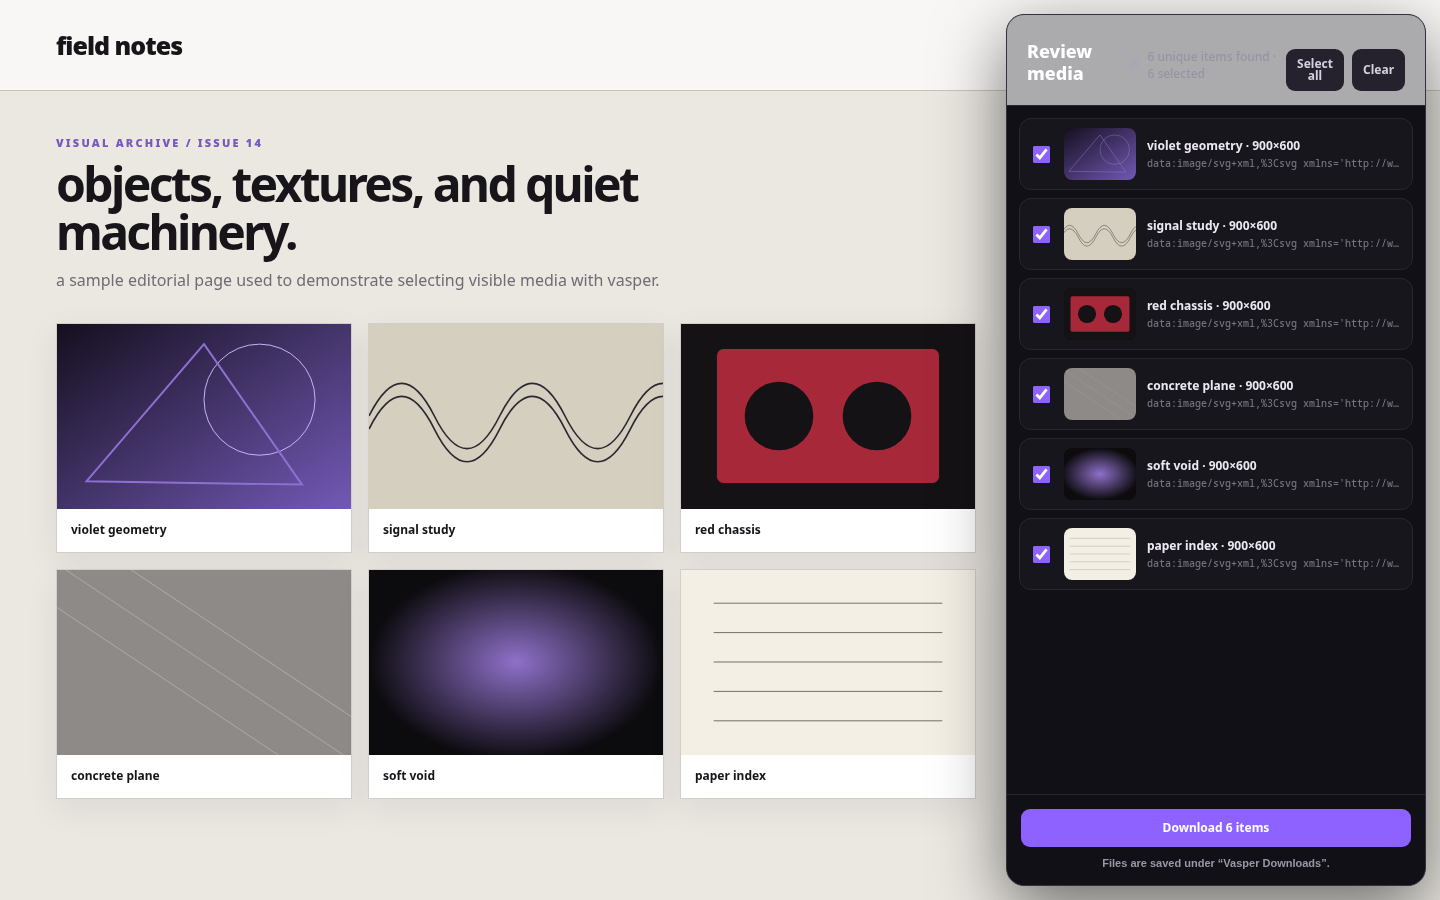
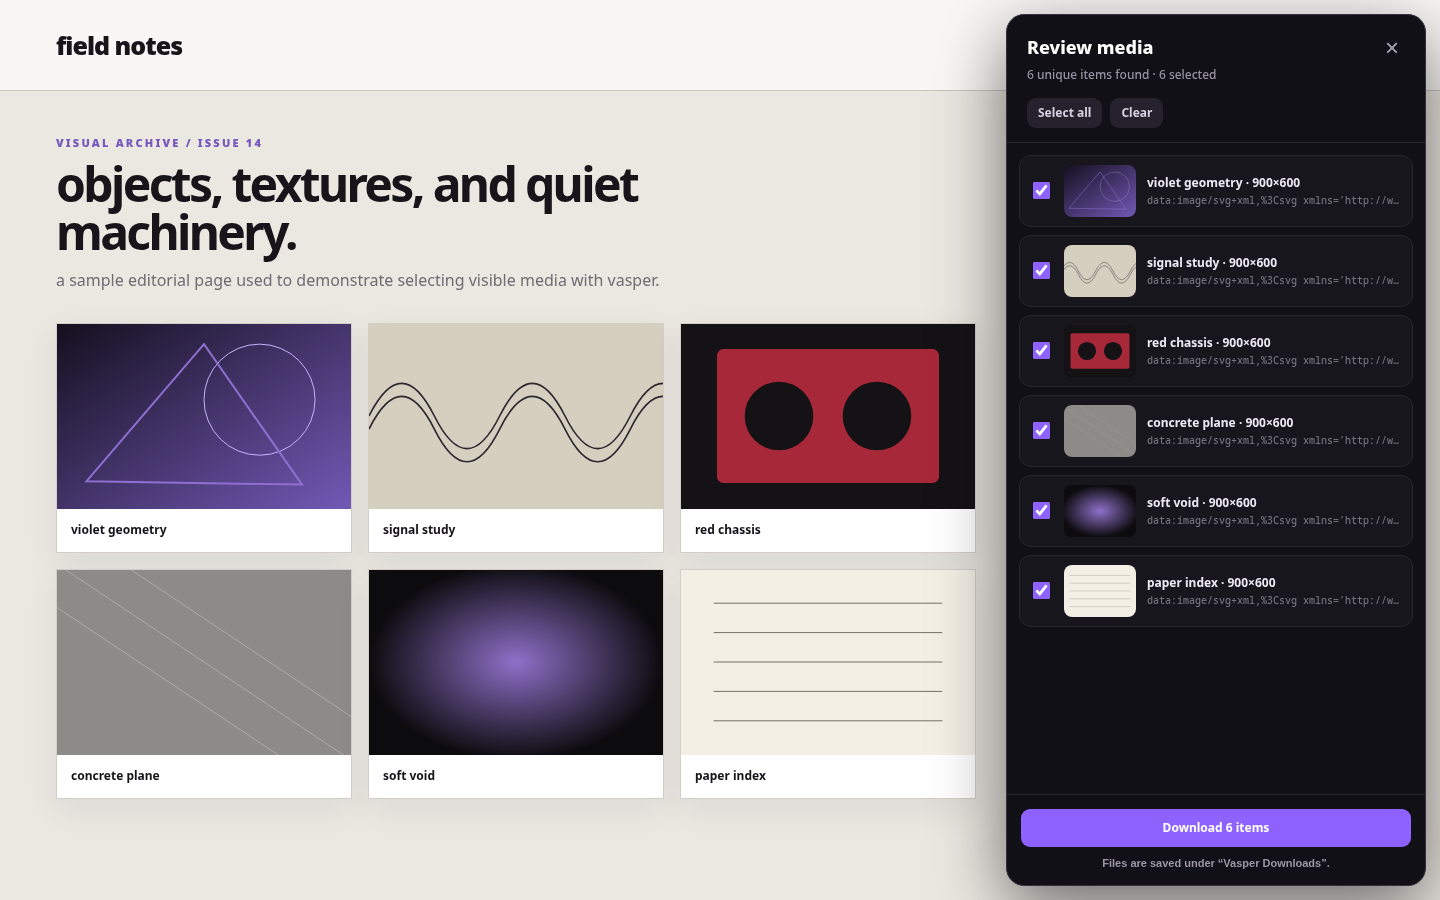
chore: prepare branded promotion assets

Changed region(s): [[0.6875, 0.0, 1.0, 0.6844]]

diff --git a/test/popup-branding.test.js b/test/popup-branding.test.js
@@ -1,0 +1,11 @@
+const assert = require('node:assert/strict');
+const fs = require('node:fs');
+const path = require('node:path');
+const test = require('node:test');
+
+const popup = fs.readFileSync(path.join(__dirname, '../src/popup.html'), 'utf8');
+
+test('the popup uses the current Vasper name', () => {
+  assert.match(popup, />VASPER<\/p>/);
+  assert.doesNotMatch(popup, /MEDIA BOX/i);
+});

diff --git a/src/popup.html b/src/popup.html
@@ -10,7 +10,7 @@
   <main>
     <div class="mark" aria-hidden="true">⌗</div>
     <div>
-      <p class="eyebrow">MEDIA BOX</p>
+      <p class="eyebrow">VASPER</p>
       <h1>Grab the media you can see.</h1>
     </div>
     <p class="copy">Draw a rectangle over a page, review the images, GIFs, videos, or audio found there, and download them together.</p>

diff --git a/promotion/README.md b/promotion/README.md
@@ -1,0 +1,19 @@
+# chrome web store promotion assets
+
+these files are genuine captures built from the current unpacked extension interface. they do not use mock product screens.
+
+## screenshots
+
+- `01-vasper-popup.png` — the popup after media discovery (`1280 × 800`)
+- `02-select-visible-media.png` — media selection with two items checked (`1280 × 800`)
+- `03-review-and-download.png` — the review step before download (`1280 × 800`)
+
+## small promo tile
+
+- `small-promo-440x280.png` — a store-sized promotional tile grounded in the same popup interface (`440 × 280`)
+
+## publishing notes
+
+- recapture these assets after any visible interface change.
+- verify the extension package and permission text before uploading to the chrome web store.
+- keep screenshots factual: do not add download counts, ratings, testimonials, or browser-store chrome that does not exist.
